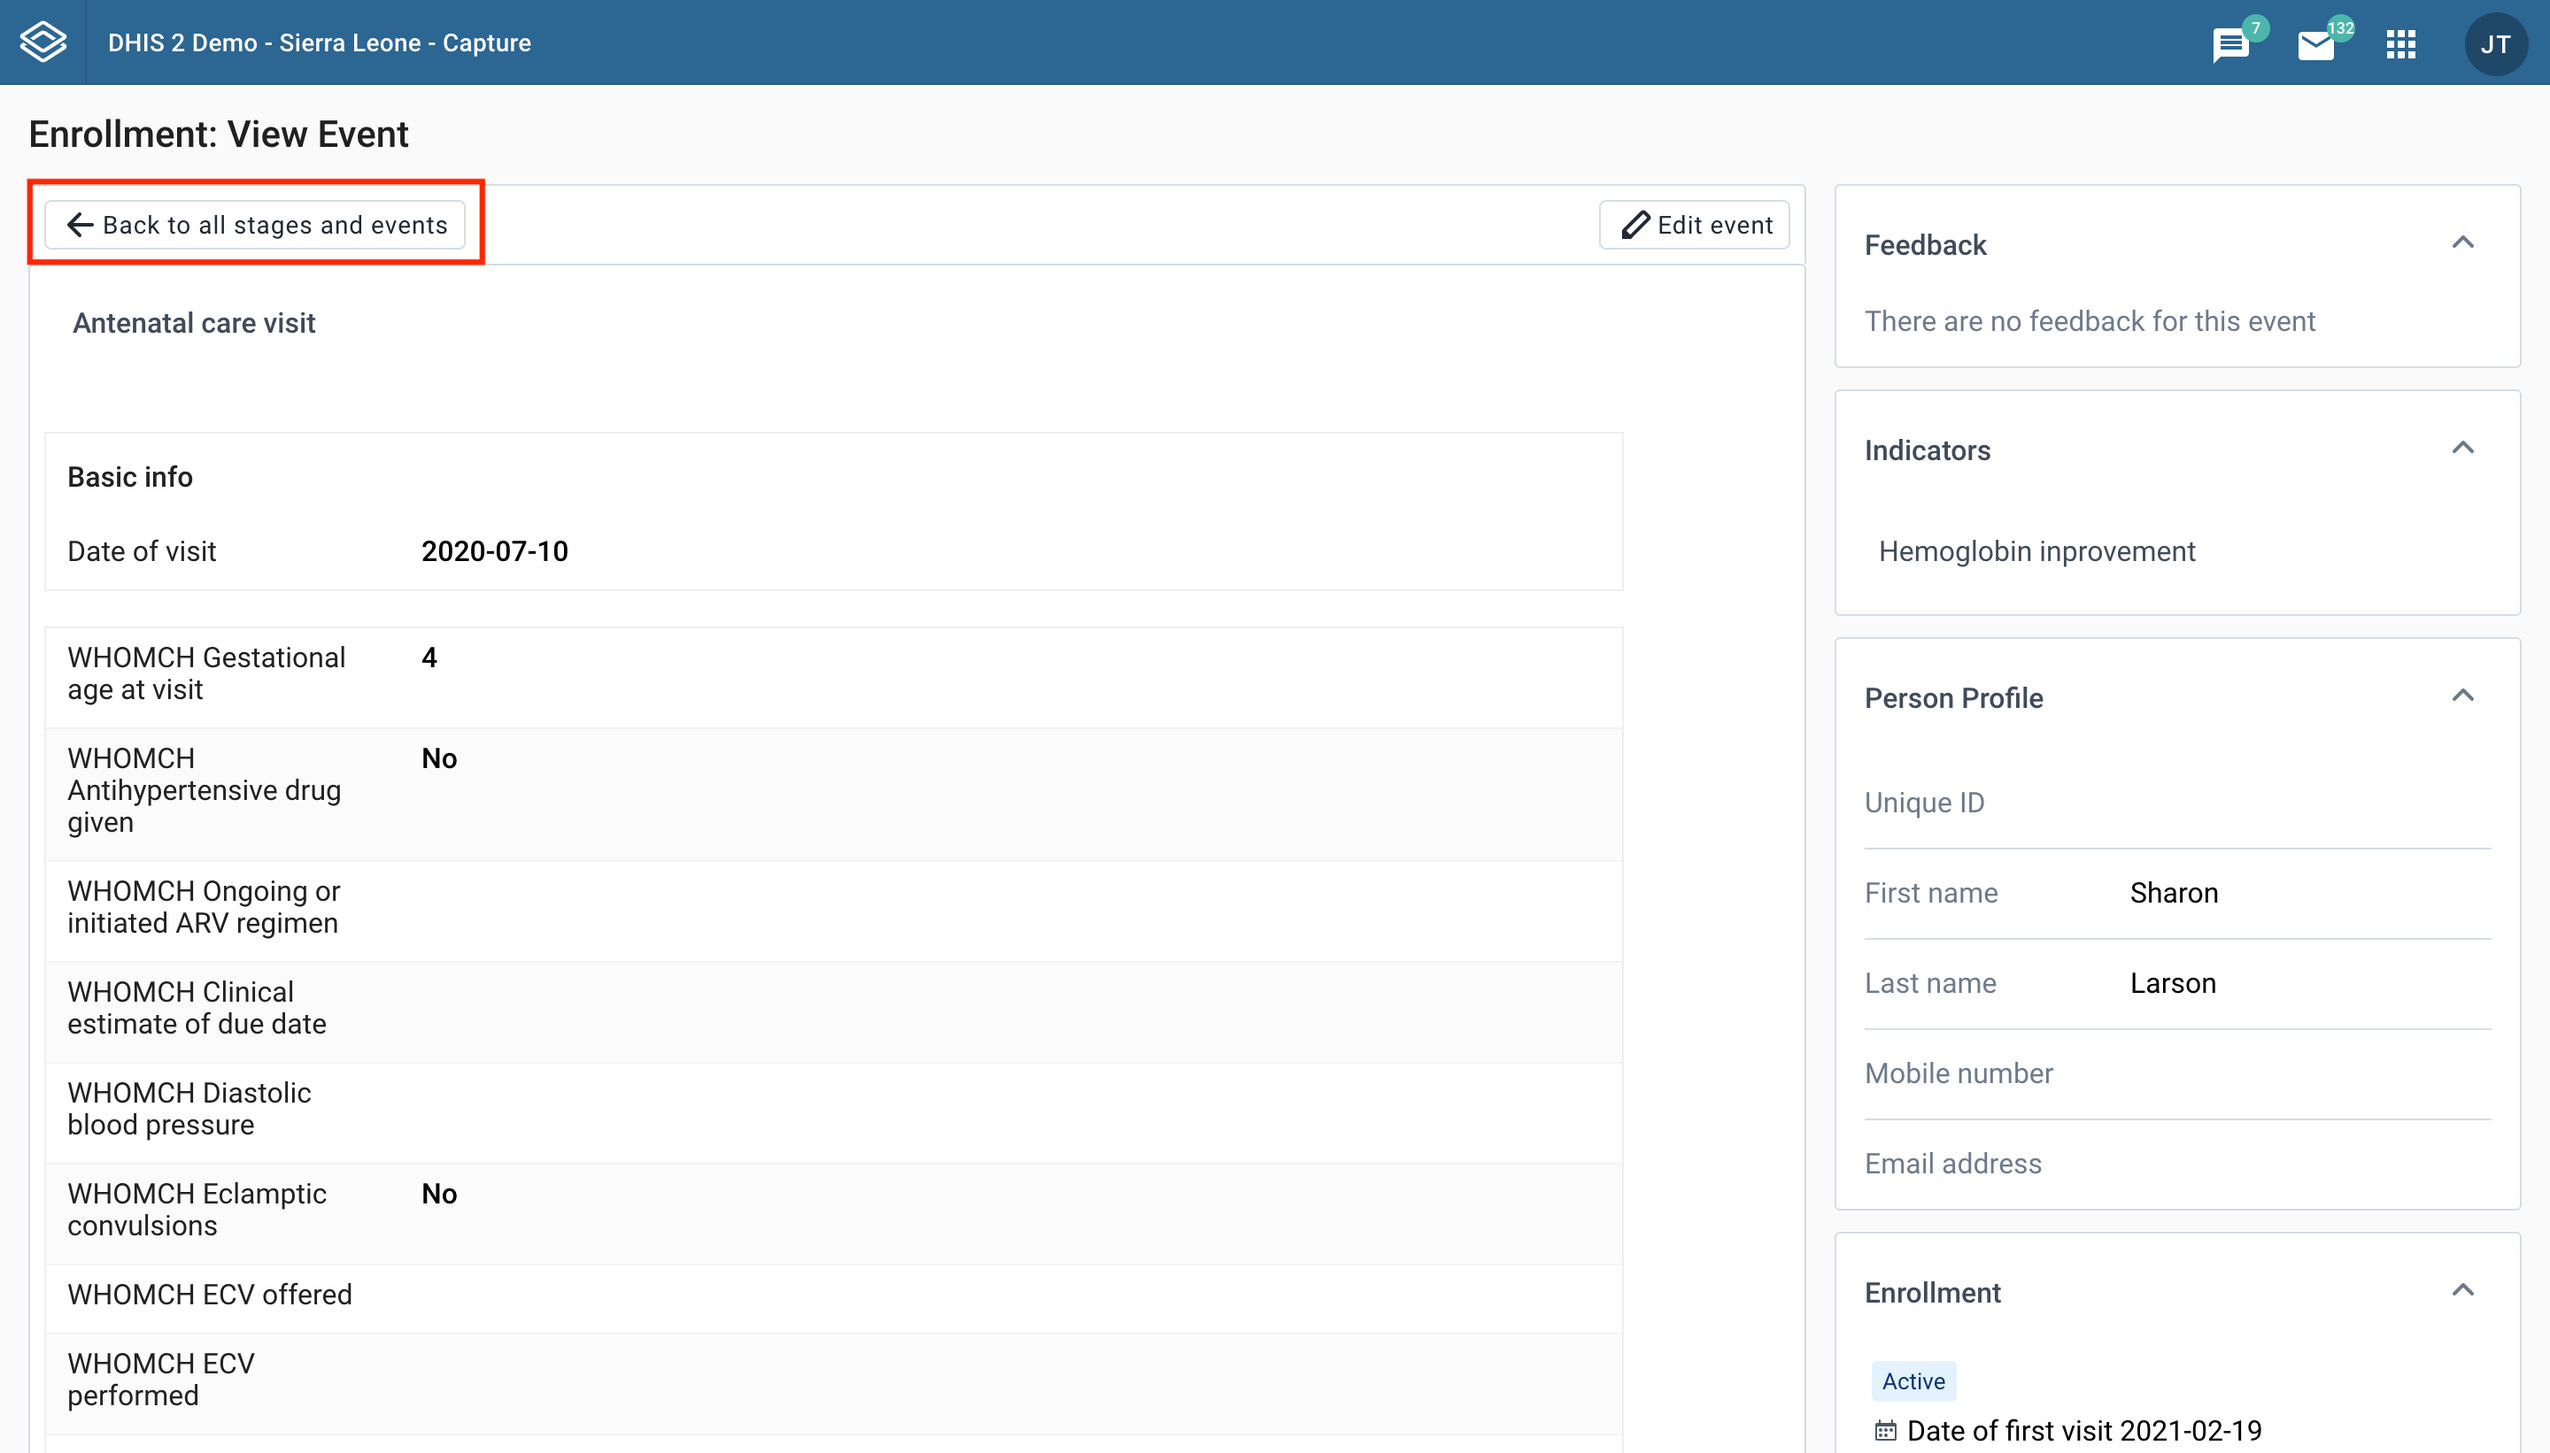
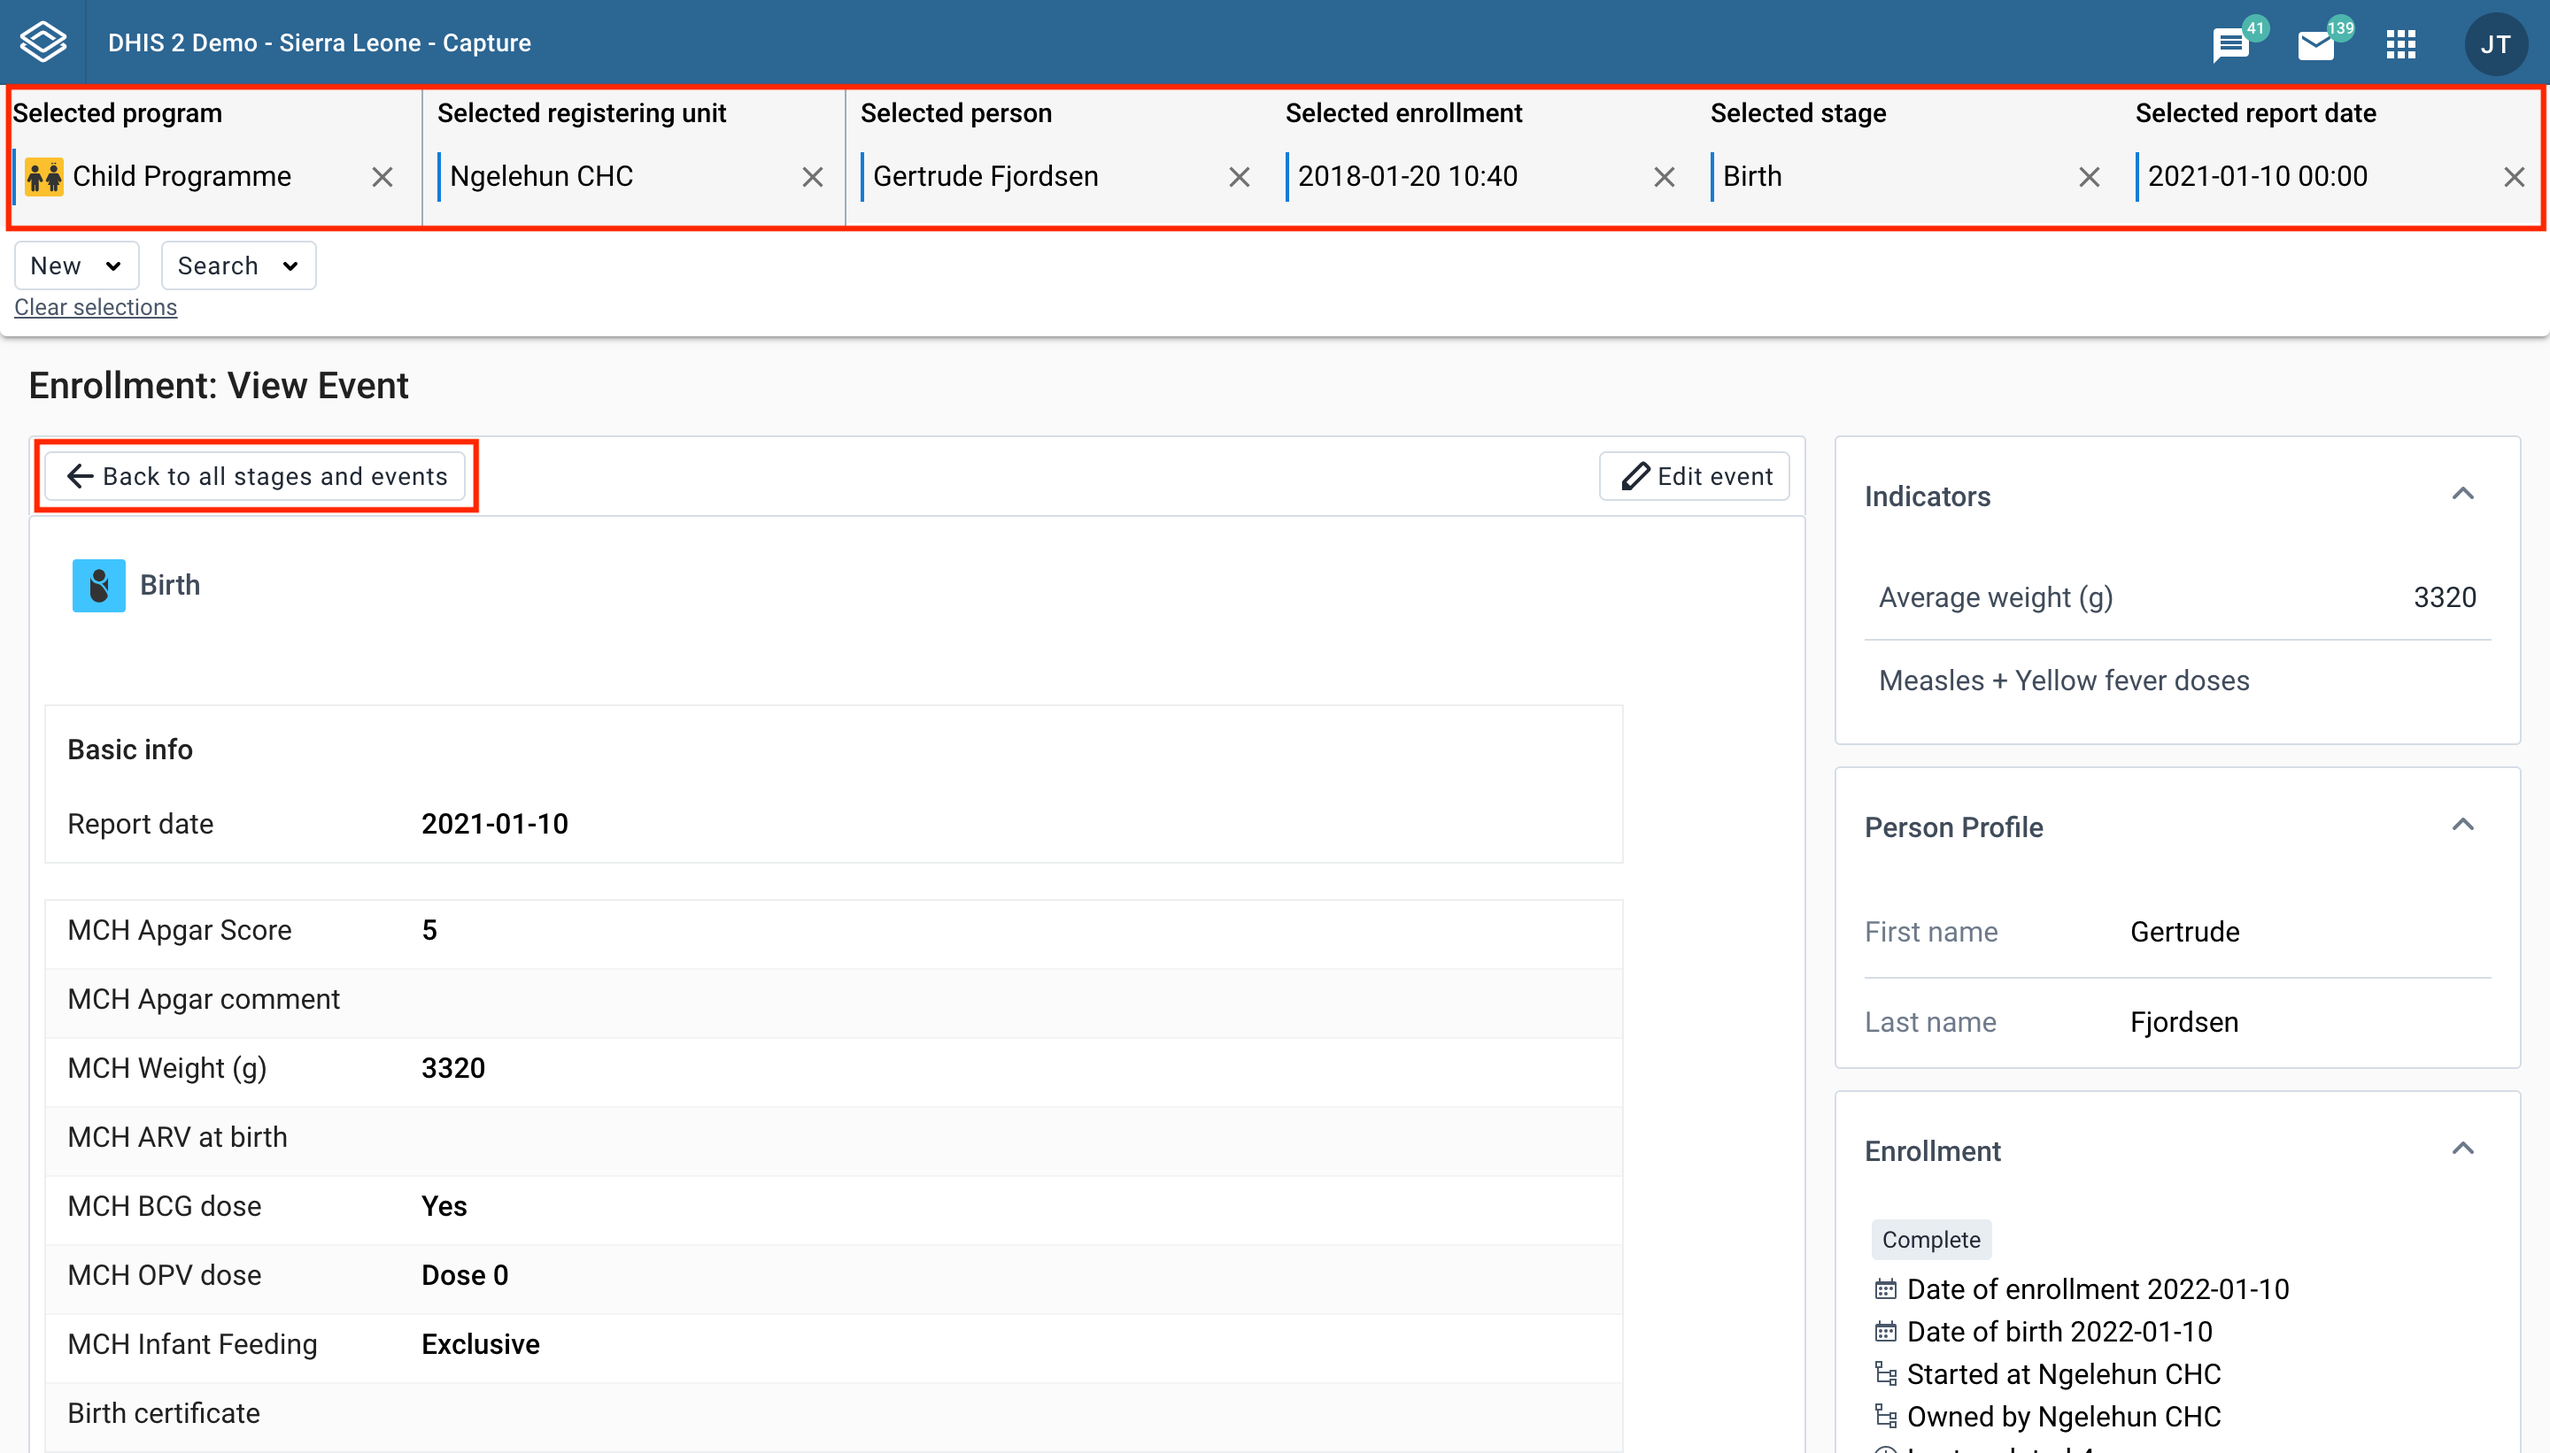
docs: add docs about the page context

diff --git a/src/user/using-the-capture-app.md b/src/user/using-the-capture-app.md
@@ -959,10 +959,21 @@ If there aren't any warnings to show for the current dashboard then the widget i
 
 ## Enrollment event view and edit page
 
-One way to reach the enrollment event form is by typing in the address bar of your browser. You have to specify the `programId`, `orgUnitId`, `teiId`, `enrollmentId`, `stageId` and `eventId`. 
-The second way to reach the enrollment event form is by clicking any event in the Program stage list from the Enrollment Overview page.
+### Navigation 
 
-![](resources/images/capture_app/enrollment-event-view-edit-url.png)
+You can reach the enrollment event edit page is by clicking any event in the Program stage list from the Enrollment Overview page.
+
+### Top bar context 
+
+At the top of the page you can see different informations related with the current context. You can see the program, the organization unit, the tracked entity, the enrollment date, the stage and the enrollmenet event date.
+
+To go to Enrollment Overview page you can:
+- click the "Back to all stages and events" button.
+- deselect the stage from the top bar.
+- deselect the event from the top bar.
+
+![](resources/images/capture_app/enrollment-event-view-edit-navigation.png)
+
 
 ### Error Widget
 
@@ -992,7 +1003,3 @@ When the form is in the edit mode the title of the page will appear as: `Enrollm
 When the form is in the edit mode the title of the page will appear as: `Enrollment: Edit Event`. You can modify the event and click the `Save` button. Click the `Cancel` button to switch to the view mode without saving the changes. 
 
 ![](resources/images/capture_app/enrollment-event-view-edit-edit.png)
-
-To go back to the enrollment overview page coick the "Back to all stages and events" button 
-
-![](resources/images/capture_app/enrollment-event-view-edit-navigation.png)
